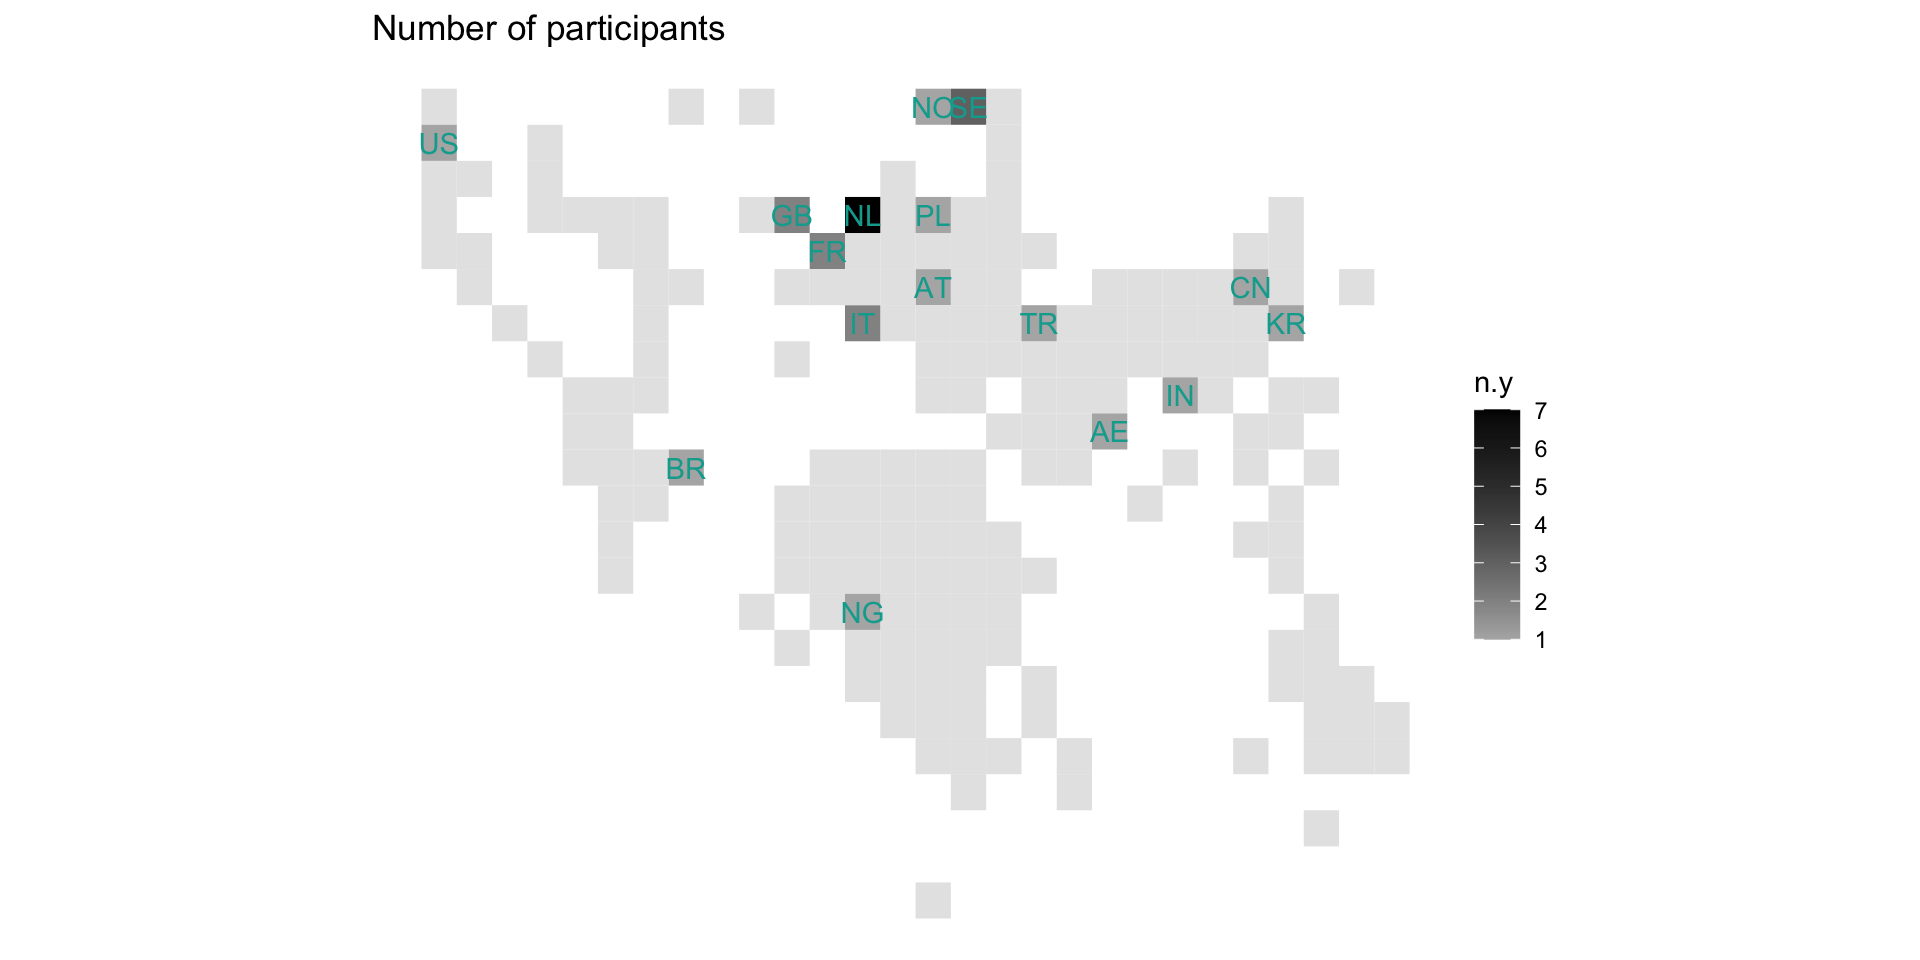
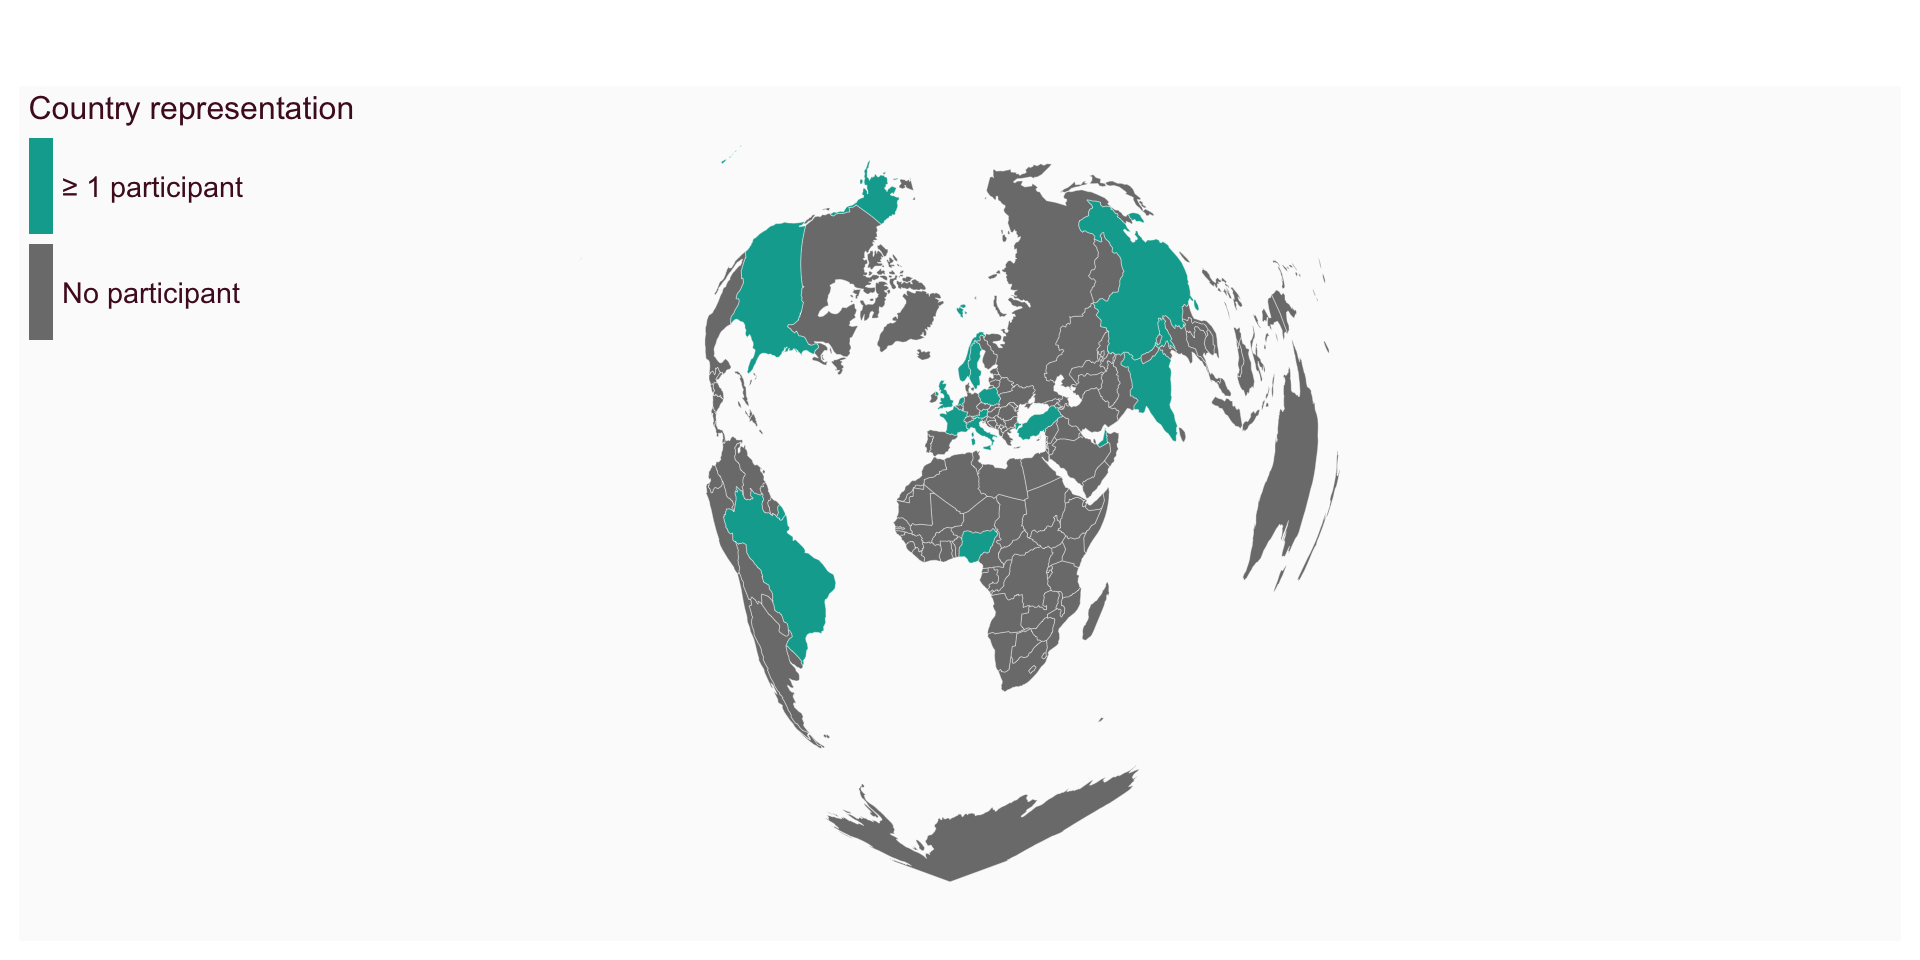
update participants map

diff --git a/Community/Opening.html b/Community/Opening.html
@@ -157,7 +157,7 @@ Clémentine Cottineau-Mugadza
 </ul>
 <div class="cell">
 <div class="cell-output-display">
-<countdown-timer class="countdown" id="timer_fb149f6f" minutes="9" seconds="0" update-every="1" tabindex="0" style="right:0;bottom:0;"></countdown-timer>
+<countdown-timer class="countdown" id="timer_ee0cbe15" minutes="9" seconds="0" update-every="1" tabindex="0" style="right:0;bottom:0;"></countdown-timer>
 </div>
 </div>
 </section>
@@ -170,25 +170,13 @@ Clémentine Cottineau-Mugadza
 </ul>
 <div class="cell">
 <div class="cell-output-display">
-<countdown-timer class="countdown" id="timer_b25a4201" minutes="9" seconds="0" update-every="1" tabindex="0" style="right:0;bottom:0;"></countdown-timer>
+<countdown-timer class="countdown" id="timer_6601cdb9" minutes="9" seconds="0" update-every="1" tabindex="0" style="right:0;bottom:0;"></countdown-timer>
 </div>
 </div>
 </section>
 <section id="okay-now-you-know-6-people" class="slide level2 scrollable">
 <h2>Okay! Now you know 6 people!</h2>
-<div class="cell">
-<div class="cell-output cell-output-stdout">
-<pre><code>Reading layer `tiled_grid_mapped' from data source 
-  `/Users/ccottineau/GitHub/2026Workshop/Community/assets/tiled_grid_mapped.geojson' 
-  using driver `GeoJSON'
-Simple feature collection with 192 features and 8 fields
-Geometry type: MULTIPOLYGON
-Dimension:     XY
-Bounding box:  xmin: 0.5 ymin: 0.5 xmax: 28.5 ymax: 23.5
-Geodetic CRS:  WGS 84</code></pre>
-</div>
 
-</div>
 <img data-src="Opening_files/figure-revealjs/maps-1.png" width="960" class="r-stretch"></section>
 <section id="the-27" class="slide level2 scrollable smaller">
 <h2>The 27</h2>
@@ -234,8 +222,8 @@ Geodetic CRS:  WGS 84</code></pre>
 <h2>Interface profile</h2>
 <p>…because you are experienced in translating between developer and user profiles</p>
 </section>
-<section id="flash-talks" class="title-slide slide level1 center">
-<h1>Flash talks</h1>
+<section id="flash-talks-5min-pp" class="title-slide slide level1 center">
+<h1>Flash talks (5min pp)</h1>
 
 <div class="reveal-header">
 <div class="header-logo-left">
